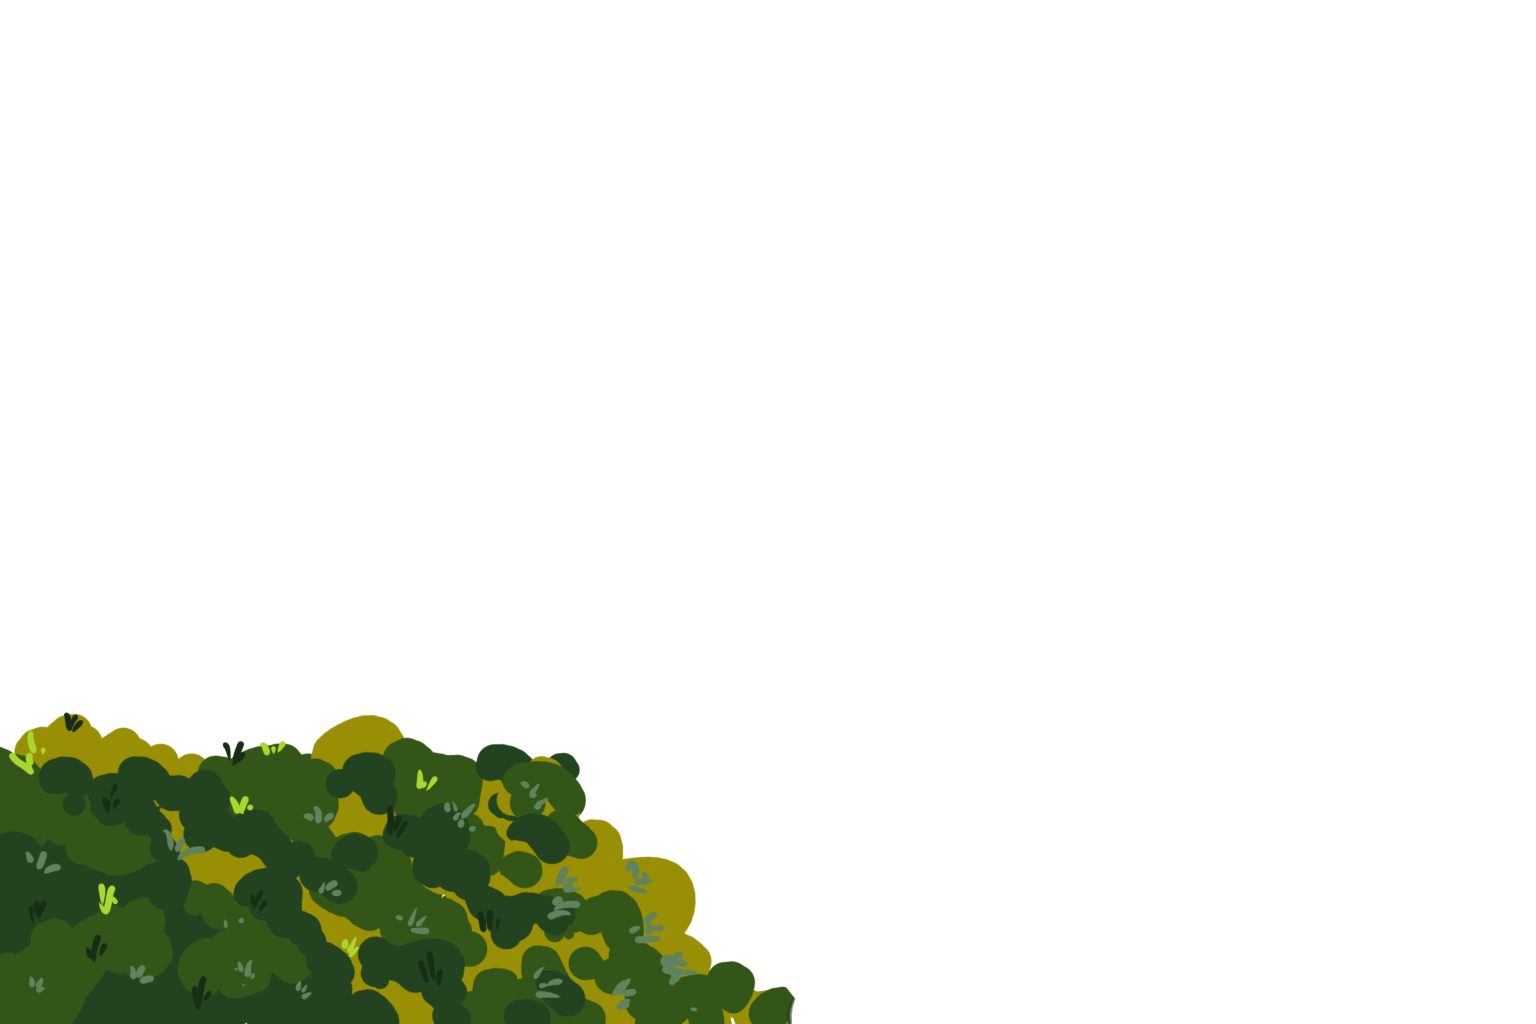
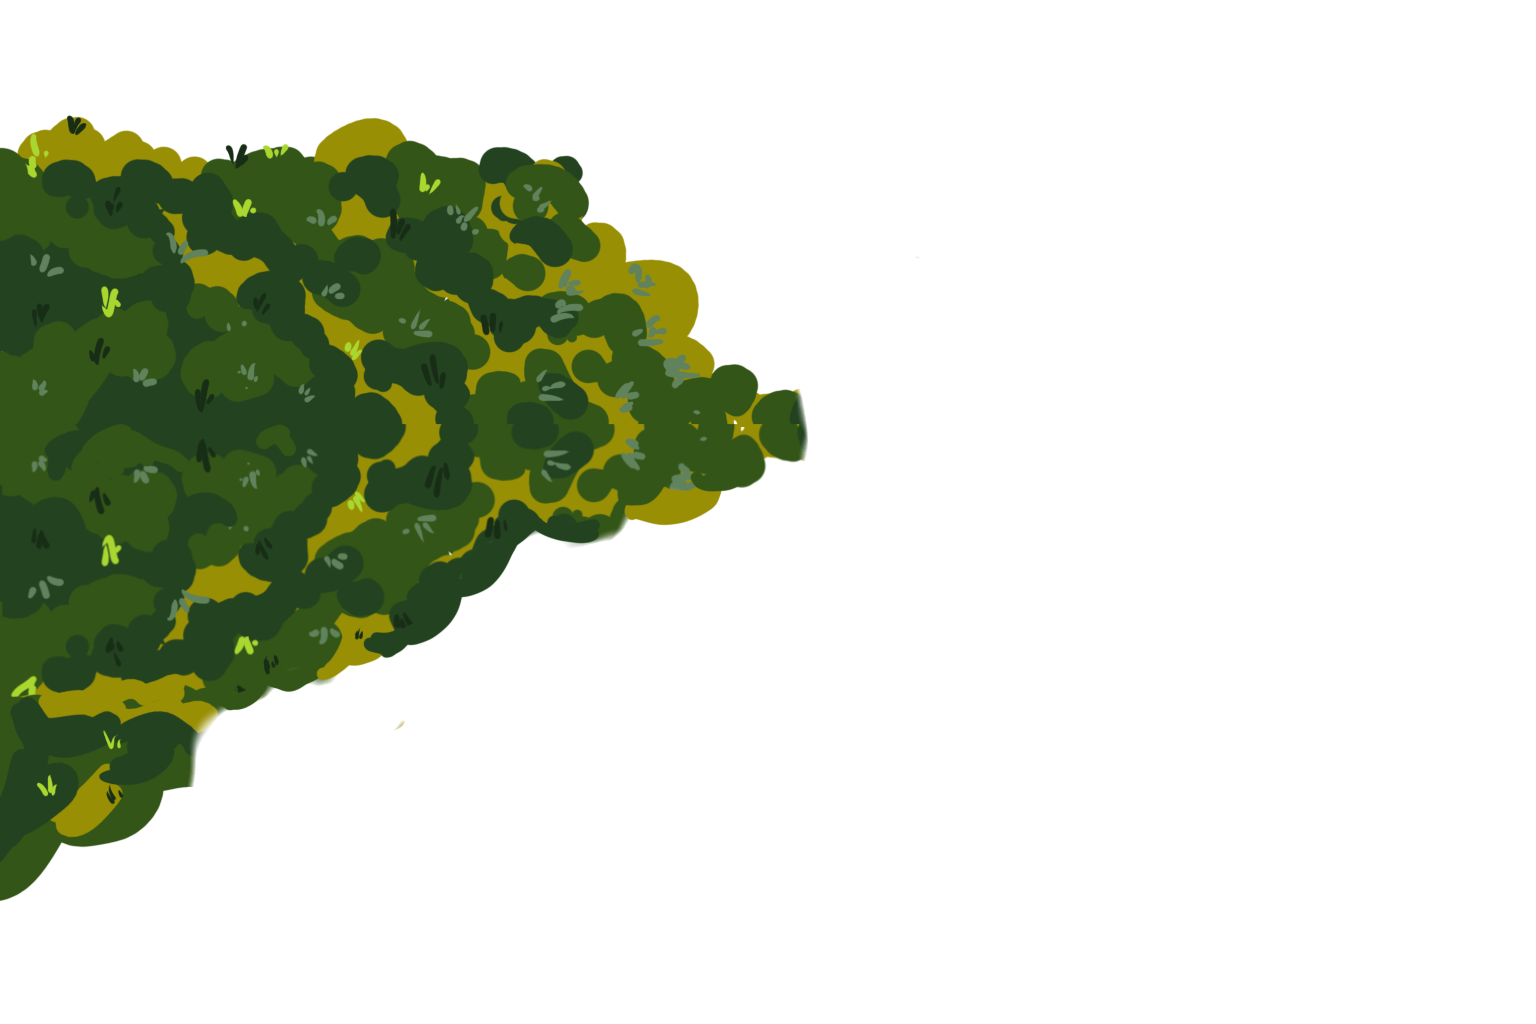
Added tape

diff --git a/index.html b/index.html
@@ -17,12 +17,12 @@
     <main>
         <div class="outer-landscape left">
             <div class="landscape left">
-                <img class="unselectable" src="./assets/art/bush-l-cropped.png">
+                <img class="unselectable" src="./assets/art/bush-l.png">
             </div>
         </div>
         <div class="outer-landscape right">
             <div class="landscape right">
-                <img class="unselectable" src="./assets/art/bush-r-cropped.png">
+                <img class="unselectable" src="./assets/art/bush-r.png">
             </div>
         </div>
         <div class="outer-mountains left">
@@ -43,7 +43,7 @@
 
     <section class="two">
         <div class="tagline-box">
-            <h2 class="tagline">AWARENESS THAT <span>STICKS</span>.</h2>
+            <h2 class="tagline text-shadow">AWARENESS THAT <span>STICKS</span>.</h2>
         </div>
         <div class="two-inner">
             <div class="two-box">
@@ -61,24 +61,31 @@
 
     <section class="three">
         <div class="three-inner">
-            <div>
-                <h2>Our Products</h2>
+            <div class="popout-hover">
+                <h2 class="text-shadow">Our Products</h2>
+                <img class="tape t l unselectable" src="./assets/tape/tape-1.png">
             </div>
             <div class="popout-hover">
-                <h3>Leo the Tiger</h3>
-                <img src="./assets/logo/favicon.png">
+                <h3><span>Leo</span> the Tiger</h3>
+                <img class="tape tl m unselectable" src="./assets/tape/tape-2.png">
+                <img class="prod-img" src="./assets/img/team.jpg">
             </div>
             <div class="popout-hover">
-                <h3>Leo the Tiger</h3>
-                <img src="./assets/logo/favicon.png">
+                <h3><span>Leo</span> the Tiger</h3>
+                <img class="tape tr s unselectable" src="./assets/tape/tape-3.png">
+                <img class="tape bl m unselectable" src="./assets/tape/tape-1.png">
+                <img class="prod-img" src="./assets/img/team.jpg">
             </div>
             <div class="popout-hover">
-                <h3>Leo the Tiger</h3>
-                <img src="./assets/logo/favicon.png">
+                <h3><span>Leo</span> the Tiger</h3>
+                <img class="tape tl s unselectable" src="./assets/tape/tape-3.png">
+                <img class="tape tr m unselectable" src="./assets/tape/tape-2.png">
+                <img class="prod-img" src="./assets/img/team.jpg">
             </div>
             <div class="popout-hover">
-                <h3>Leo the Tiger</h3>
-                <img src="./assets/logo/favicon.png">
+                <h3><span>Leo</span> the Tiger</h3>
+                <img class="tape ttr s unselectable" src="./assets/tape/tape-1.png">
+                <img class="prod-img" src="./assets/img/team.jpg">
             </div>
         </div>
     </section>

diff --git a/main.js b/main.js
@@ -80,31 +80,31 @@ function initializeAnimations() {
 
 	// Landscape entrance on page open
 	animate(LANDSCAPE_LEFT_ID, {
-		x: [-600, -100],
-		rotate: [90, 0],
+		x: [-700, -100],
+		rotate: [30, 0],
 		ease: spring({ duration: 1500, bounce: 0.25 })
 	});
 	animate(MOUNTAINS_LEFT_ID, {
-		x: [-400, -100],
-		rotate: [-90, 0],
+		x: [-500, -100],
+		rotate: [-30, 0],
 		ease: spring({ duration: 1500, bounce: 0.25 })
 	});
 	animate(LANDSCAPE_RIGHT_ID, {
-		x: [600, 100],
-		rotate: [-90, 0],
+		x: [700, 100],
+		rotate: [-30, 0],
 		ease: spring({ duration: 1500, bounce: 0.25 })
 	});
 	animate(MOUNTAINS_RIGHT_ID, {
-		x: [400, 100],
-		rotate: [90, 0],
+		x: [500, 100],
+		rotate: [30, 0],
 		ease: spring({ duration: 1500, bounce: 0.25 })
 	});
 
 	// Landscape exit on scroll
 	animate(OUTER_LANDSCAPE_LEFT_ID, {
-		x: [0, -500],
+		x: [0, -600],
 		y: [0, 300],
-		rotate: [0, 90],
+		rotate: [0, 30],
 		ease: 'linear',
 		autoplay: onScroll({
 			enter: 'top top-=250',
@@ -114,9 +114,9 @@ function initializeAnimations() {
 		})
 	});
 	animate(OUTER_LANDSCAPE_RIGHT_ID, {
-		x: [0, 500],
+		x: [0, 600],
 		y: [0, 300],
-		rotate: [0, -90],
+		rotate: [0, -30],
 		ease: 'linear',
 		autoplay: onScroll({
 			enter: 'top top-=250',
@@ -126,9 +126,9 @@ function initializeAnimations() {
 		})
 	});
 	animate(OUTER_MOUNTAINS_LEFT_ID, {
-		x: [0, -300],
+		x: [0, -500],
 		y: [0, 150],
-		rotate: [0, 90],
+		rotate: [0, 30],
 		ease: 'linear',
 		autoplay: onScroll({
 			enter: 'top top-=100',
@@ -138,9 +138,9 @@ function initializeAnimations() {
 		})
 	});
 	animate(OUTER_MOUNTAINS_RIGHT_ID, {
-		x: [0, 300],
+		x: [0, 500],
 		y: [0, 150],
-		rotate: [0, -90],
+		rotate: [0, -30],
 		ease: 'linear',
 		autoplay: onScroll({
 			enter: 'top top-=100',
@@ -208,7 +208,7 @@ function initializeAnimations() {
 		el.addEventListener('mouseenter', () => {
 			const X_OFFSET = randRange(-20, 20), Y_OFFSET = randRange(-20, 20), ROTATE_OFFSET = randRange(-10, 10);
 			animate(el, {
-				scale: 1.05,
+				scale: 1.1,
 				x: X_OFFSET,
 				y: Y_OFFSET,
 				rotate: ROTATE_OFFSET,
@@ -232,7 +232,7 @@ function initializeAnimations() {
 	TEAM_PHOTO_EL.addEventListener('mouseenter', () => {
 		const X_OFFSET = randRange(-20, 20), Y_OFFSET = randRange(-20, 20), ROTATE_OFFSET = randRange(-10, 10);
 		animate(TEAM_PHOTO_EL, {
-			scale: 1.05,
+			scale: 1.1,
 			x: X_OFFSET,
 			y: Y_OFFSET,
 			rotate: [-3, ROTATE_OFFSET],
@@ -256,7 +256,7 @@ window.addEventListener('load', () => {
 	document.body.classList.add('is-loaded');
 	initializeAnimations();
 	window.addEventListener('scroll', () => {
-		const offset = window.scrollY * 0.6;
+		const offset = window.scrollY * 0.5;
 		document.body.style.backgroundPosition = `0px ${offset}px`;
 	});
 });

diff --git a/style.css b/style.css
@@ -21,7 +21,7 @@ body {
     margin: 0;
     font-family: 'Lazydog', Arial, Helvetica, sans-serif;
     overflow-x: hidden;
-    background-image: url("./assets/art/background-2.png");
+    background-image: url("./assets/art/background-3.png");
     background-size: cover;
 }
 
@@ -74,8 +74,13 @@ main {
     flex-direction: column;
 }
 
+.text-shadow {
+    text-shadow: 2px 2px 0px rgba(0, 0, 0, 0.5);
+}
+
 .tagline {
     font-size: 40px;
+    font-weight: bold;
     color: #F3A530;
     margin: 0;
 
@@ -187,9 +192,6 @@ main {
     opacity: 0;
 }
 
-.tagline {
-    font-weight: bold;
-}
 .tagline-box {
     height: 50vh;
     margin-top: -130px;
@@ -218,9 +220,9 @@ section.two {
 }
 
 .two-box img {
-    width: 35%;
+    width: 40%;
     border-radius: 20px;
-    border: 10px solid #7E3000;
+    border: 10px solid #913b05;
     transform: rotate(-3deg);
 }
 
@@ -265,16 +267,13 @@ section.two {
     padding: 80px;
 }
 
-.three-inner img {
-    width: 80%;
-    border-radius: 20px;
-}
-
 .three-inner div {
     border-radius: 20px;
     background-color: #FF914D;
     padding: 30px;
-    color: white;
+    color: #1D4934;
+
+    position: relative;
 
     display: flex;
     justify-content: center;
@@ -284,15 +283,64 @@ section.two {
     text-align: center;
 }
 .three-inner h2 {
-    font-size: 50px;
+    font-size: 60px;
+    color: white;
 }
 .three-inner h3 {
     font-size: 30px;
+}
+.three-inner h3 span {
+    color: white;
+    font-weight: bold;
 }
 .three-inner h3 {
     margin: 0;
     margin-bottom: 20px;
 }
+
+.prod-img {
+    width: 80%;
+    border-radius: 20px;
+}
+
+.tape {
+    position: absolute;
+    /* background-color: blue; */
+}
+.tape.tl {
+    top: -30px;
+    left: -50px;
+    transform: rotate(-30deg);
+}
+.tape.tr {
+    top: -30px;
+    right: -50px;
+    transform: rotate(30deg);
+}
+.tape.bl {
+    bottom: -30px;
+    left: -50px;
+    transform: rotate(30deg);
+}
+.tape.br {
+    bottom: -30px;
+    right: -50px;
+    transform: rotate(-30deg);
+}
+.tape.ttr {
+    top: -30px;
+    right: 60px;
+    right: 40%;
+    transform: translateX(50%) rotate(4deg);
+}
+.tape.t {
+    top: -45px;
+    left: 50%;
+    transform: translateX(-50%) rotate(-4deg);
+}
+.tape.s { width: 125px; }
+.tape.m { width: 160px; }
+.tape.l { width: 190px; }
 
 footer {
     background-color: skyblue;
